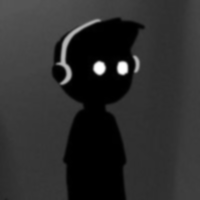
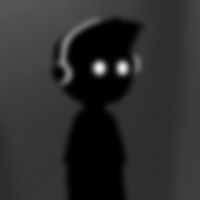
new (#2)

Changed region(s): [[0.27, 0.09, 0.51, 0.45], [0.45, 0.27, 0.72, 0.39]]

diff --git a/src/ops/conv.rs b/src/ops/conv.rs
@@ -10,8 +10,42 @@ use super::{
     OpResult,
     PNG_COMPRESSION,
     PNG_FILTER,
-    CH_LEN
+    CH_LEN,
+    Kernel
 };
+
+pub enum KType {
+    Reduced,
+    Overlap
+}
+
+const SHARP_KN : Kernel = Kernel::K3([
+    0,-1,0,
+    -1,5,-1,
+    0,-1,0
+], 1);
+
+const RED_FILTER_KN : Kernel = Kernel::Kc3([
+    1,0,0,1, 1,0,0,1, 1,0,0,1,
+    1,0,0,1, 1,0,0,1, 1,0,0,1,
+    1,0,0,1, 1,0,0,1, 1,0,0,1,
+], 9);
+
+const PIXEL_KN : Kernel = Kernel::K5([
+    4,0,2,0,4,
+    0,0,0,0,0,
+    2,0,1,0,2,
+    0,0,0,0,0,
+    4,0,2,0,4
+], 25);
+
+const BLUR_KN : Kernel = Kernel::K5([
+    0,1,0,1,0,
+    1,0,3,0,1,
+    0,3,5,3,0,
+    1,0,3,0,1,
+    0,1,0,1,0
+], 25);
 
 pub fn test_blur(
     img: &OpImage
@@ -27,14 +61,9 @@ pub fn test_blur(
     let new_dim = conv(
         &mut raw,
         org_dim,
-        vec![
-            4,0,2,0,4,
-            0,0,0,0,0,
-            2,0,1,0,2,
-            0,0,0,0,0,
-            4,0,2,0,4
-        ],
-        Some(false)
+        //TODO: Can't blur high quality images, Increase Intensity
+        &BLUR_KN,
+        Some(KType::Overlap)
     ).unwrap();
     println!("saving: {:?}", start.elapsed());
 
@@ -61,7 +90,7 @@ pub fn test_blur(
     let start = Instant::now();
     image::imageops::blur(
         img,
-        1.0
+        3.0
     ).save("tmp/opsblurred.png").unwrap();
     
     println!("against: {:?}", start.elapsed());
@@ -70,42 +99,39 @@ pub fn test_blur(
 pub fn conv(
     v: &mut Vec<u8>,
     (w, h): (u32, u32),
-    k: Vec<i32>,
-    reduced: Option<bool>
+    kernel: &Kernel,
+    k_type: Option<KType>
 ) -> OpResult<(u32, u32)> {
-    let k_len : usize = k.len();
-    let k_side : usize = (k_len as f32).sqrt() as usize;
+    let (k, k_div, ch_n) = match kernel {
+        Kernel::Kc3(k,d) => (k.to_vec(), d, CH_LEN),
+        Kernel::Kc5(k,d) => (k.to_vec(), d, CH_LEN),
+        Kernel::K3(k,d) => (k.to_vec(), d, 1),
+        Kernel::K5(k,d) => (k.to_vec(), d, 1),
+    };
     
-    //length of v equals width times height
+    let k_len : usize = k.len();
+    let k_side : usize = ((k_len/ch_n) as f32).sqrt() as usize;
+    
     assert_eq!(
         v.len(), 
         CH_LEN*(w*h) as usize
     );
-    
-    // kernel is a square
     assert_eq!(
-        k_side*k_side,
+        k_side*k_side*ch_n,
         k_len
     );
     
-    let div = k
-        .clone()
-        .iter()
-        .sum::<i32>();
-    
     let (w, h) = (w as usize, h as usize);
     
-    let (crit_ci, w_ex) = {
-        let bal = w % k_side;
-        (w-bal, bal)
-    };
-    let (crit_ri, h_ex) = {
-        let bal = h % k_side;
-        (h-bal, bal)
+    let (reduced, overlap) = if let Some(val) = k_type {
+        match val {
+            KType::Overlap => (true, true),
+            KType::Reduced => (true, false)
+        }
+    } else {
+        (false, false)
     };
     
-    let reduced = reduced
-       .unwrap_or(true);
     let mut rv : Vec<u8> = if reduced {
             Vec::with_capacity(
                 (w/k_side + 1)
@@ -118,29 +144,27 @@ pub fn conv(
     
     let chr = CH_LEN*w;
     
-    for ri in (0..h).step_by(k_side) {
-        for ci in (0..w).step_by(k_side) {
+    let step = if overlap {1} else {k_side};
+    
+    let ek = k.clone();
+    let ek = ek.iter()
+        .enumerate()
+        .filter(|v| *v.1 != 0)
+        .collect::<Vec<(usize, &i32)>>();
+    let ek_len = ek.len();
+    
+    for ri in (0..h).step_by(step) {
+        for ci in (0..w).step_by(step) {
             let close = {
                 let mut vec : Vec<usize> = Vec::with_capacity(k_len);
                 
                 for y in 0..k_side {
-                    let y = if ri == crit_ri
-                        && y >= h_ex {
-                            h_ex-1
-                        } else {
-                            y
-                        };
-                    
-                    let chr_back = (ri+y)*chr;
+                    let y = (ri+y).min(h-1);
+                    let chr_back = y*chr;
                     
                     for x in 0..k_side {
-                        let x = if ci == crit_ci
-                            && x >= w_ex {
-                                w_ex-1
-                            } else {
-                                x
-                            };
-                        let chc_back = (ci+x)*CH_LEN;
+                        let x = (ci+x).min(w-1);
+                        let chc_back = x*CH_LEN;
                         
                         vec.push(chr_back + chc_back);
                     }
@@ -153,17 +177,25 @@ pub fn conv(
                 i32; CH_LEN
             ] = [0, 0, 0, 0];
             
-            for ki in 0..k_len {
-                for color_i in 0..CH_LEN {
-                    pixel[color_i] += k[ki] * v[
-                        close[ki] + color_i
-                    ] as i32;
+            if ch_n == 1 {
+                for i in 0..ek_len {
+                    let (ki, kv) = ek[i];
+                    for ch_i in 0..CH_LEN {
+                        pixel[ch_i] += kv * v[close[ki] + ch_i] as i32;
+                    }
+                }
+            } else {
+                for i in 0..ek_len {
+                    let (ki, kv) = ek[i];
+                
+                    let ch_i = ki%ch_n;
+                    pixel[ch_i] += kv * v[close[ki/ch_n] + ch_i] as i32;
                 }
             }
             
             let mut pixel = pixel
                 .iter()
-                .map(|p| (p/div) as u8)
+                .map(|p| (p/k_div) as u8)
                 .collect::<Vec<u8>>();
             
             if reduced {
@@ -181,17 +213,14 @@ pub fn conv(
     
     if reduced {
         *v = rv;
-        return if w_ex == 0 {
-            Ok((
-                (w/k_side) as u32,
-                (h/k_side) as u32
-            ))
-        } else {
-            Ok((
-                (w/k_side+1) as u32,
-                (h/k_side+1) as u32
-            ))
-        };
+        
+        let n = if w%k_side == 0 || overlap {0} else {1};
+        let d = if overlap {1} else {k_side};
+        
+        return Ok((
+            (w/d +n) as u32,
+            (h/d +n) as u32
+        ));
     } else {
         return Ok((
             w as u32,

diff --git a/src/main.rs b/src/main.rs
@@ -8,6 +8,13 @@ mod ops;
 use image::io::Reader;
 
 fn main() {
+    //TODO: PLOTTING
+    /* Let's do some Math */
+    
+    test_img();
+}
+
+fn test_img() {
     let img_path = "pfp.jpg";
     
     let reader = Reader::open(img_path)
@@ -22,8 +29,5 @@ fn main() {
     ops::brit::test_brighten(&img);
     ops::crop::test_crop(&mut img);
     ops::conv::test_blur(&img);
-    ops::doub::test_overlay(
-        &mut img,
-        &img2
-    );
+    ops::doub::test_overlay(&mut img, &img2);
 }

diff --git a/src/ops/mod.rs b/src/ops/mod.rs
@@ -9,6 +9,13 @@ use image::ImageBuffer;
 pub type OpImage = ImageBuffer<Rgba<u8>, Vec<u8>>;
 pub type OpResult<T> = Result<T, Box<dyn std::error::Error>>;
 
+pub enum Kernel {
+    K3 ([i32; 9], i32),
+    K5 ([i32; 25], i32),
+    Kc3 ([i32; 9*CH_LEN], i32),
+    Kc5 ([i32; 25*CH_LEN], i32)
+}
+
 pub const CH_LEN : usize = 4;
 
 pub mod crop;

diff --git a/README.md b/README.md
@@ -1,5 +1,5 @@
 # Impro
-Image Editor, the coolest of all.
+Image Processor and Graph tool.
 
 This repo contains rust code written for learning purposss for most common image processing tasks.
 
